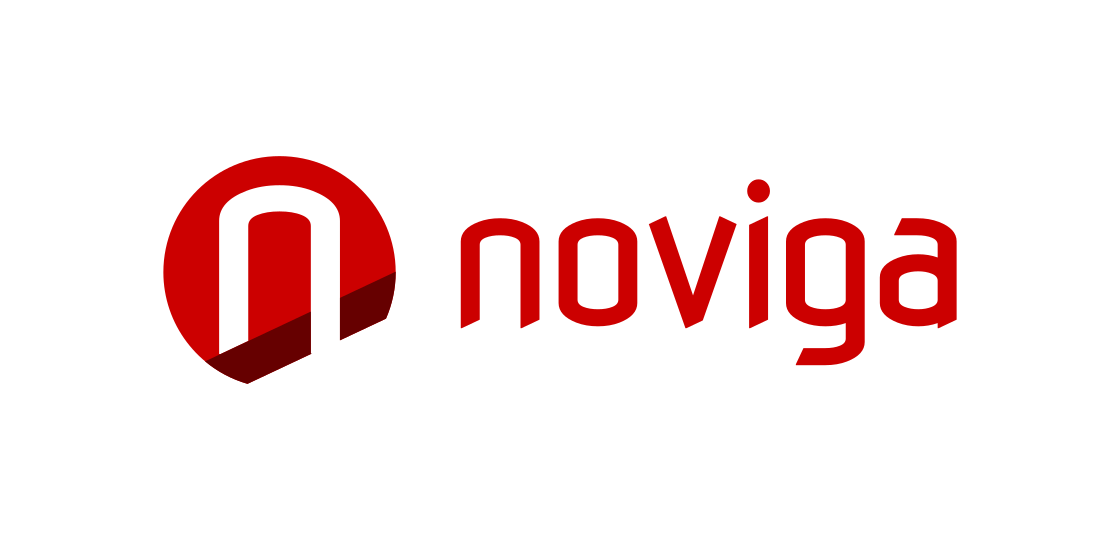
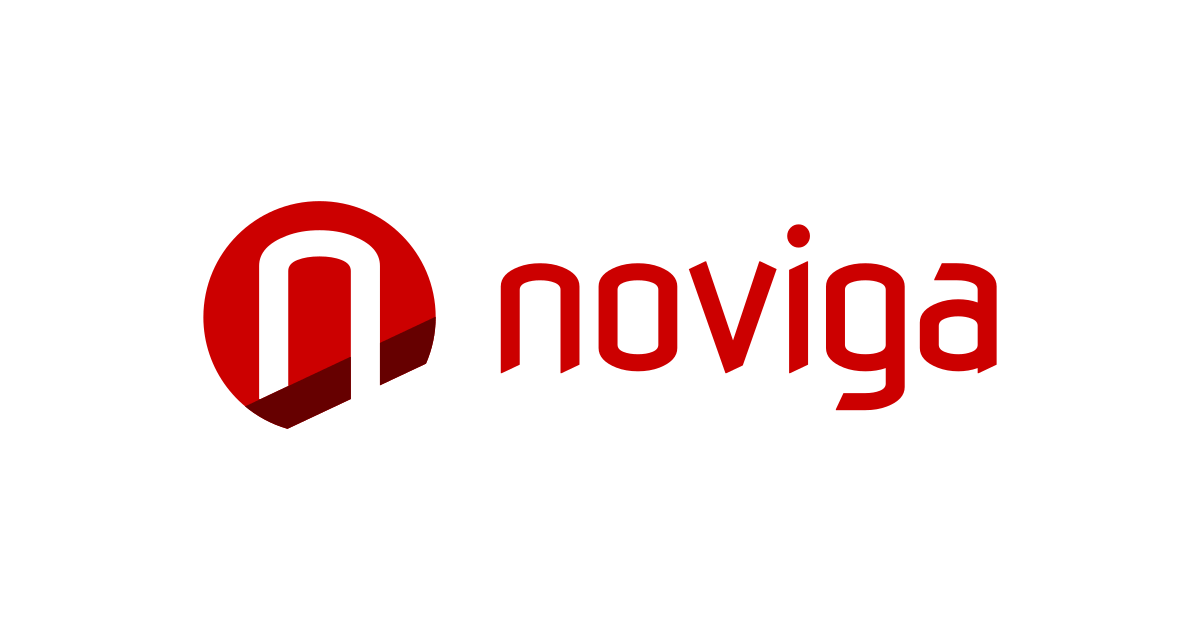
Refactor images

Changed region(s): [[0.4062, 0.3259, 0.875, 0.6815], [0.125, 0.2667, 0.375, 0.7111]]

diff --git a/docs/index.html b/docs/index.html
@@ -13,7 +13,10 @@
   <link rel="apple-touch-icon-precomposed" sizes="72x72" href="/img/favicon-72.png" />
   <link rel="apple-touch-icon-precomposed" href="/img/favicon-57.png" />
   <meta property="og:image" content="/img/ogimage.png" />
+  <meta property="og:image:width" content="1200" />
+  <meta property="og:image:height" content="630" />
   <meta property="og:title" content="Noviga" />
+  <meta property="og:type" content="website" />
   <meta property="og:site_name" content="Noviga" />
   <meta property="og:description" content="Noviga Official Website" />
 </head>
